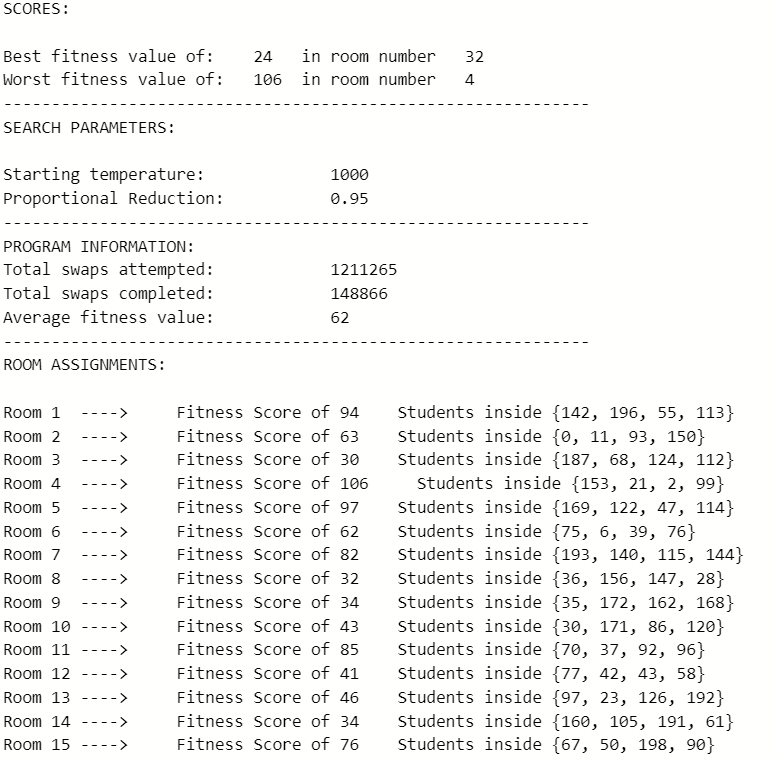
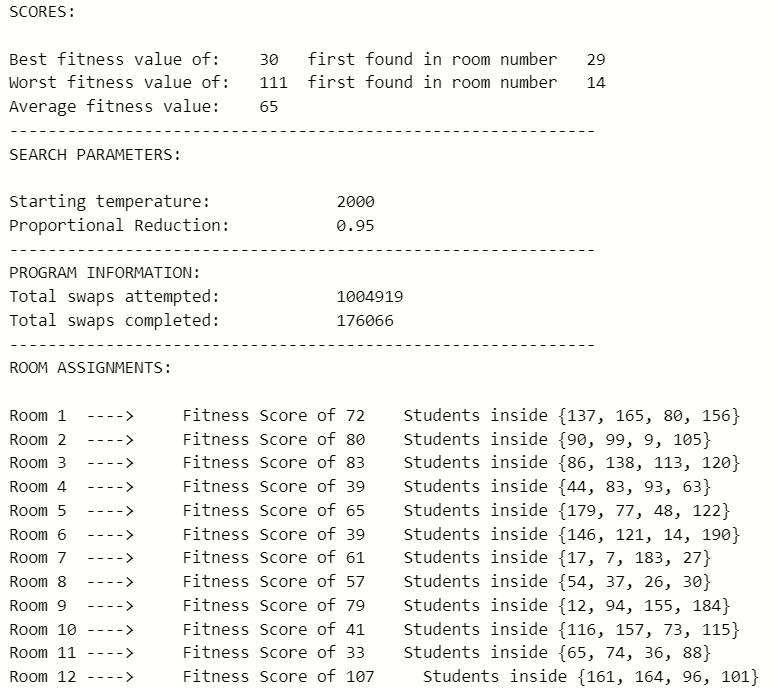
Minor edits to output file formatting

diff --git a/Code/SimAnnealing.cpp b/Code/SimAnnealing.cpp
@@ -258,9 +258,9 @@ void SimAnnealing::createOutputFile(){
   //display the best, worst, and average room compatibility score along with the parameters of your search
   output_file
   <<"SCORES:\n"
-  << "\nBest fitness value of:  \t" <<best << "\t in room number \t"
+  << "\nBest fitness value of:  \t" <<best << "\t first found in room number \t"
   <<best_room_num
-  << "\nWorst fitness value of: \t" <<worst<< "\t in room number \t"
+  << "\nWorst fitness value of: \t" <<worst<< "\t first found in room number \t"
   <<worst_room_num
   << "\nAverage fitness value:  \t" <<(avg / 50)
   //display search parameters

diff --git a/Code/RoomSorter.h b/Code/RoomSorter.h
@@ -2,6 +2,7 @@
 #include <iostream>
 
 using namespace std;
+//NOTE: Originally I was going to include a function to sort the roommates (hence the class name) for making it easier to compare results. After finishing the program I opted to remove it since I did not really see a noticable difference between sorting it and not having it sorted. 
 
 class RoomSorter{
   public:

diff --git a/Code/main.cpp b/Code/main.cpp
@@ -8,7 +8,7 @@ int main() {
 //PLEASE NOTE THAT THE PROGRAM MAY TAKE UP TO 20 SECONDS TO RUN. 
 
  //declaring initial temp, reduction values, and the name of the input file.
- int temperature = 1000;
+ int temperature = 2000;
  float reduction = 0.95;
  string input_text = "roommates.txt";
  
